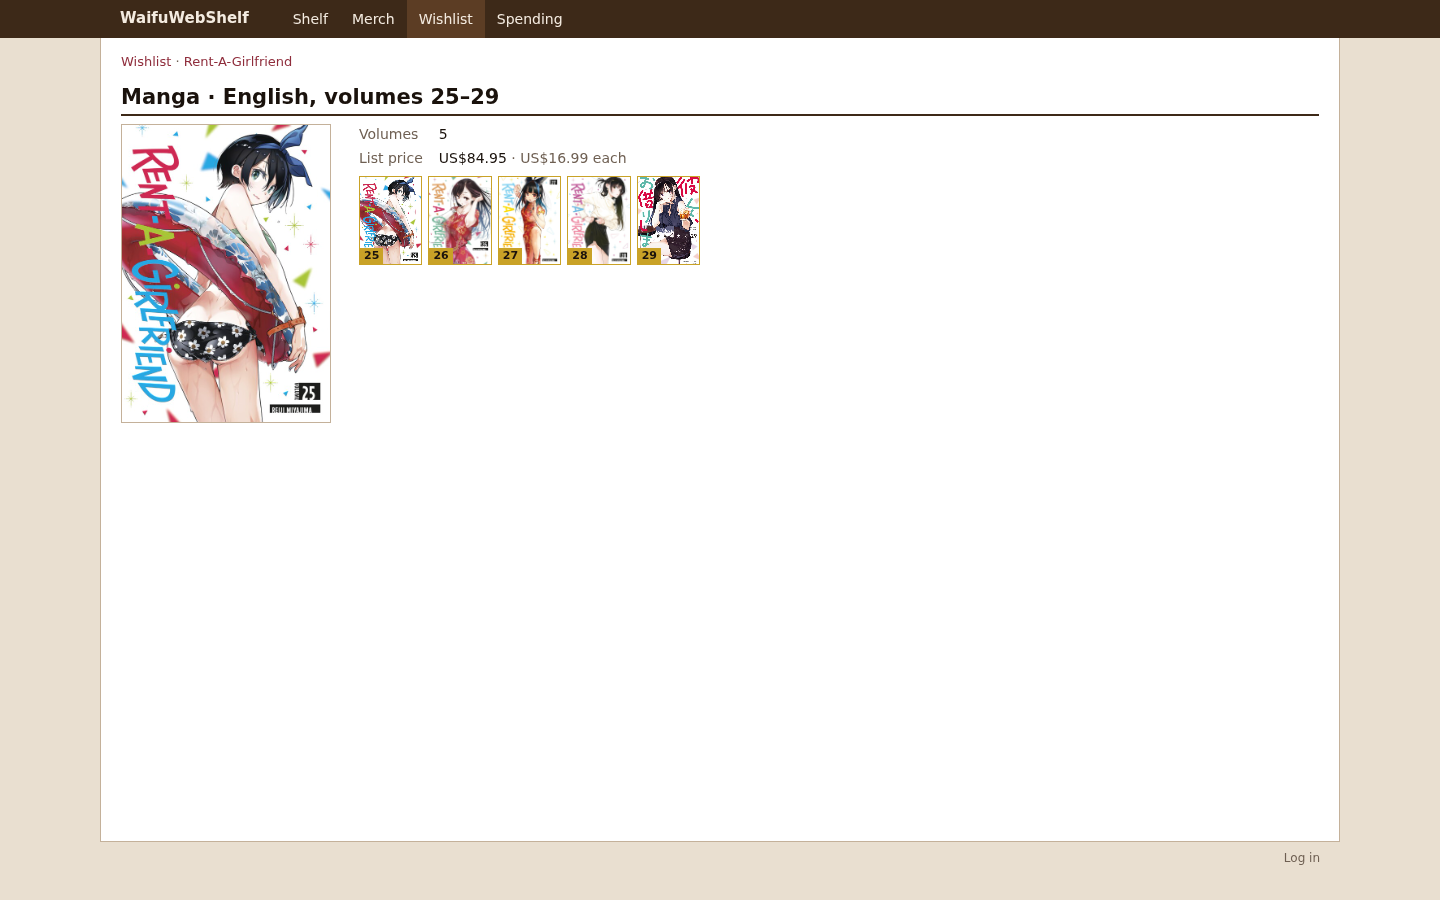
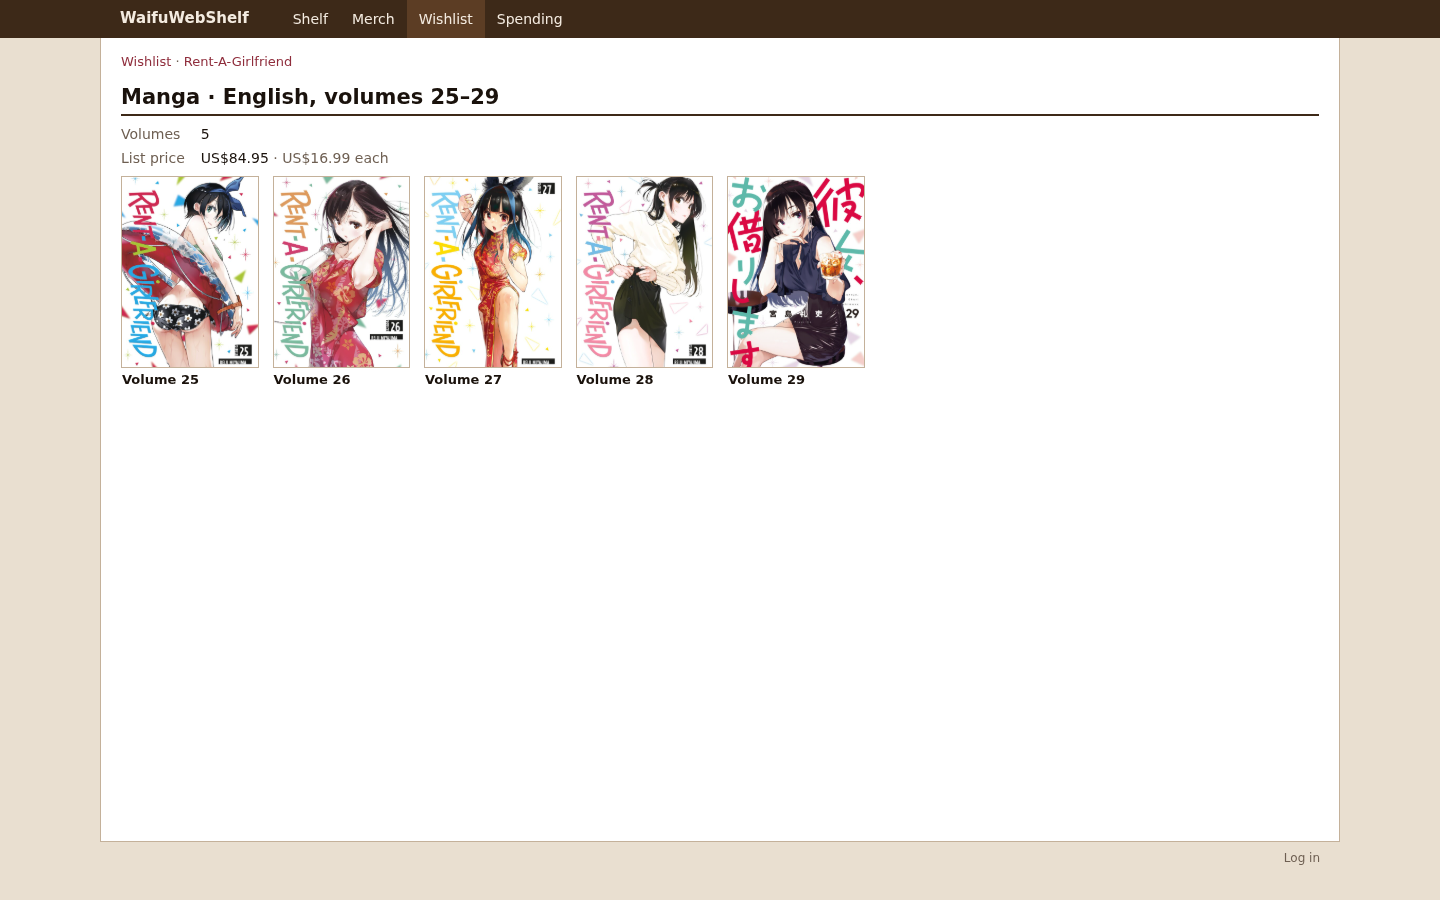
Use the same tiles on the wishlist item page

Changed region(s): [[0.0625, 0.1244, 0.625, 0.4667]]

diff --git a/templates/wishlist_detail.html b/templates/wishlist_detail.html
@@ -12,19 +12,27 @@
     </span>
     {{end}}
   </div>
-  <article class="detail{{if not .Data.Picture}} no-pic{{end}}{{if eq .Data.Kind "volumes"}} book{{end}}">
-    {{if .Data.Picture}}<a href="{{imageURL .Data.Picture}}"><img class="hero-img" src="{{imageURL .Data.Picture}}" alt=""></a>{{end}}
+  {{if eq .Data.Kind "volumes"}}
+  {{template "links_list" .Data.Links}}
+  <dl class="facts">
+    {{if gt .Data.RemainCount 1}}<dt>Volumes</dt><dd>{{.Data.RemainCount}}</dd>{{end}}
+    {{if .Data.MSRPValid}}<dt>List price</dt><dd>{{amount .Data.MSRPAmount .Data.Currency}}{{with .Data.Each}} <span class="muted">· {{.}} each</span>{{end}}</dd>{{end}}
+  </dl>
+  {{if .Data.Notes}}<p class="notes">{{.Data.Notes}}</p>{{end}}
+  {{if .Data.Volumes}}{{template "wish_volumes" .Data.Volumes}}{{end}}
+  {{else}}
+  <article class="detail{{if not .Data.ImagePath.Valid}} no-pic{{end}}">
+    {{if .Data.ImagePath.Valid}}<a href="{{imageURL .Data.ImagePath.String}}"><img class="hero-img" src="{{imageURL .Data.ImagePath.String}}" alt=""></a>{{end}}
     <div>
-            {{if eq .Data.Kind "merch"}}{{with merchSub .Data.Name .Data.MerchKind .Data.Quantity}}<p class="muted">{{.}}</p>{{end}}{{end}}
+      {{with merchSub .Data.Name .Data.MerchKind .Data.Quantity}}<p class="muted">{{.}}</p>{{end}}
       {{template "links_list" .Data.Links}}
       <dl class="facts">
-        {{if and (eq .Data.Kind "volumes") (gt .Data.RemainCount 1)}}<dt>Volumes</dt><dd>{{.Data.RemainCount}}</dd>{{end}}
-        {{if .Data.MSRPValid}}<dt>List price</dt><dd>{{amount .Data.MSRPAmount .Data.Currency}}{{with .Data.Each}} <span class="muted">· {{.}} each</span>{{end}}</dd>{{end}}
+        {{if .Data.MSRPValid}}<dt>List price</dt><dd>{{amount .Data.MSRPAmount .Data.Currency}}</dd>{{end}}
       </dl>
-      {{if gt (len .Data.Volumes) 1}}{{template "wish_volumes" .Data.Volumes}}{{end}}
       {{if .Data.Notes}}<p class="notes">{{.Data.Notes}}</p>{{end}}
     </div>
   </article>
+  {{end}}
 </div>
 {{template "footer" .}}
 {{end}}

diff --git a/static/style.css b/static/style.css
@@ -275,10 +275,7 @@ a.vol-cell.missing:hover, a.vol-cell.wanted:hover { border-color: var(--bar); co
 .wish-grid .cover { aspect-ratio: 5 / 7; border: 1px solid var(--line); }
 .wish-grid .cover:hover { border-color: var(--bar); }
 .card-body .price { font-weight: 700; font-variant-numeric: tabular-nums; }
-.vol-cell.wish { background: #f6e9b8; color: var(--wanted-ink); border-color: var(--wanted); }
-.vol-cell.wish img + .vol-num { position: absolute; left: 0; bottom: 0; min-width: 20px; padding: 0 4px; background: var(--wanted); color: var(--wanted-ink); font-size: 11px; line-height: 16px; text-align: center; }
 .card .ext-links { margin: 2px 0 0; font-size: 12px; }
-.detail .vol-grid { max-width: 480px; margin: 8px 0; }
 .cover-list { list-style: none; display: flex; flex-wrap: wrap; gap: 10px 16px; margin: 0 0 12px; padding: 0; }
 .cover-list li { display: flex; align-items: center; gap: 8px; }
 

diff --git a/templates/wishlist.html b/templates/wishlist.html
@@ -90,9 +90,12 @@
 {{end}}
 
 {{define "wish_volumes"}}
-<ol class="vol-grid">
+<div class="card-grid wish-grid">
   {{range .}}
-  <li><span class="vol-cell wish" title="Volume {{.Number}}">{{if .Cover}}<img src="{{imageURL .Cover}}" alt="" loading="lazy">{{end}}<span class="vol-num">{{.Number}}</span></span></li>
+  <div class="card">
+    <div class="cover">{{if .Cover}}<img src="{{imageURL .Cover}}" alt="" loading="lazy">{{else}}<span class="cover-text">Vol. {{.Number}}</span>{{end}}</div>
+    <div class="card-body"><h3>Volume {{.Number}}</h3></div>
+  </div>
   {{end}}
-</ol>
+</div>
 {{end}}
